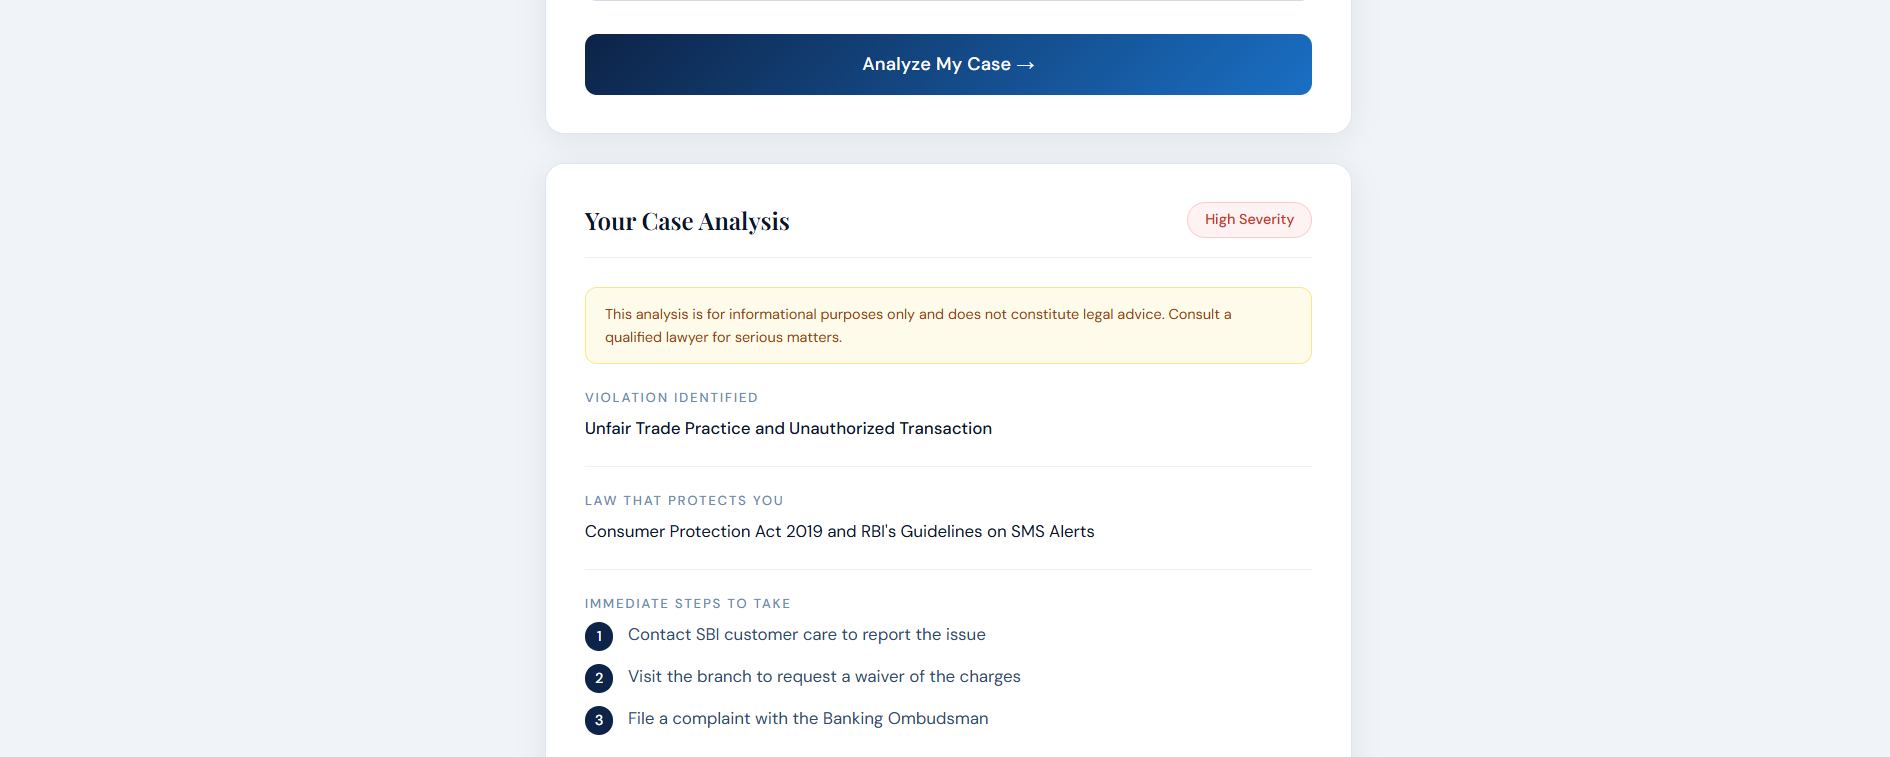
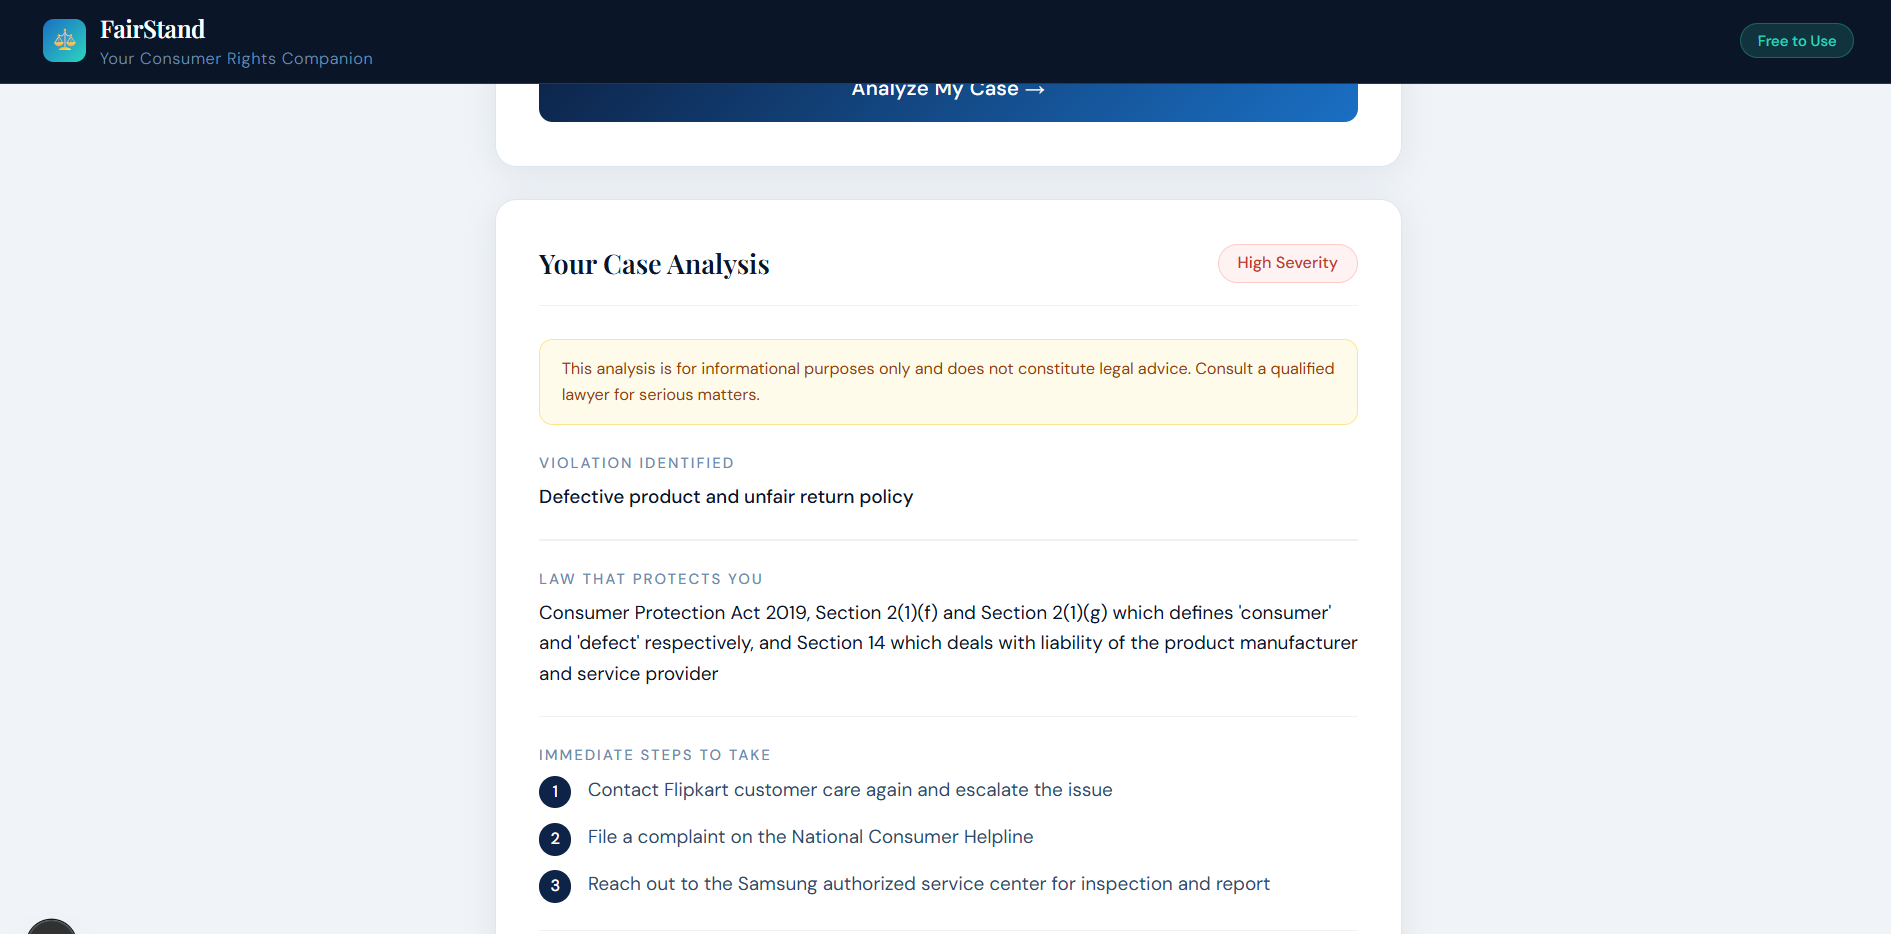
update screenshots in README

diff --git a/README.md b/README.md
@@ -5,14 +5,15 @@ FairStand is an AI-powered web app that helps ordinary Indians understand their 
 🔗 **Live Demo:** https://consumer-rights-ai-846w.vercel.app
 
 ---
+
 ## Screenshots
 
 ### Form
-![FairStand Form](./public/screenshot-form.png)
+![FairStand Form 1](./public/screenshot-form1.png)
+![FairStand Form 2](./public/screenshot-form2.png)
 
 ### Result
 ![FairStand Result 1](./public/screenshot-result1.png)
-
 ![FairStand Result 2](./public/screenshot-result2.png)
 
 ---